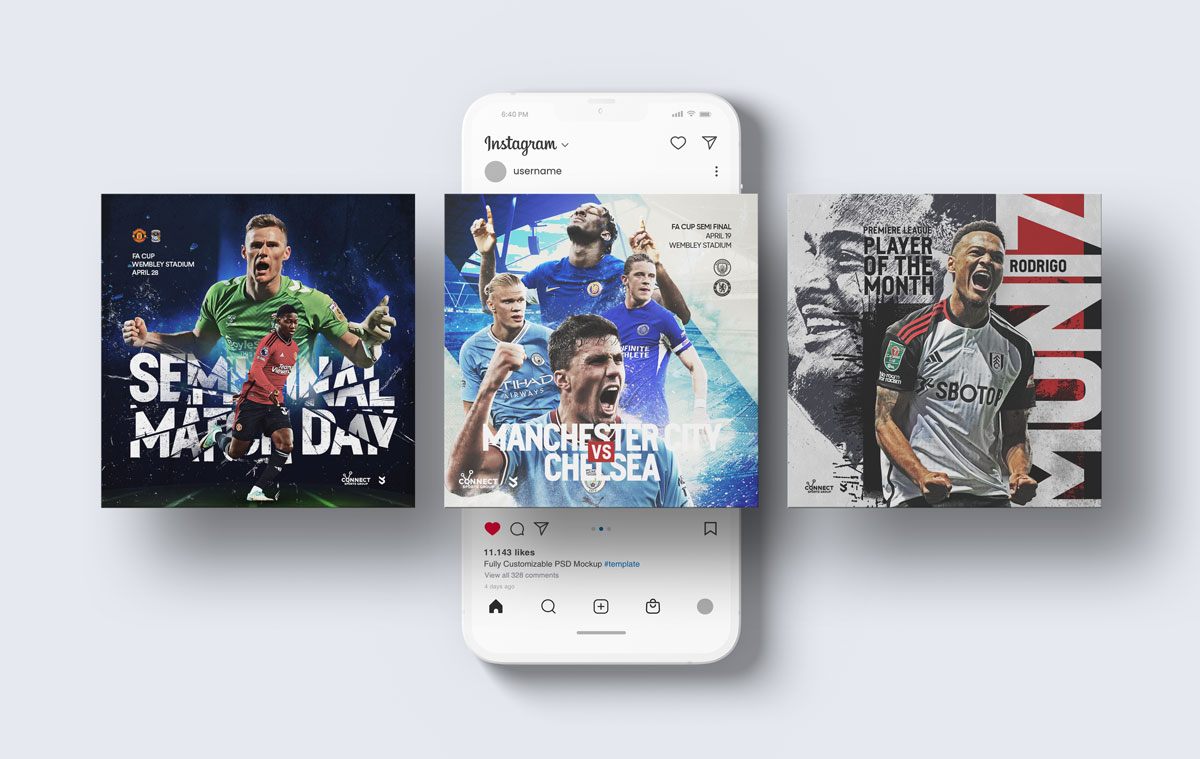
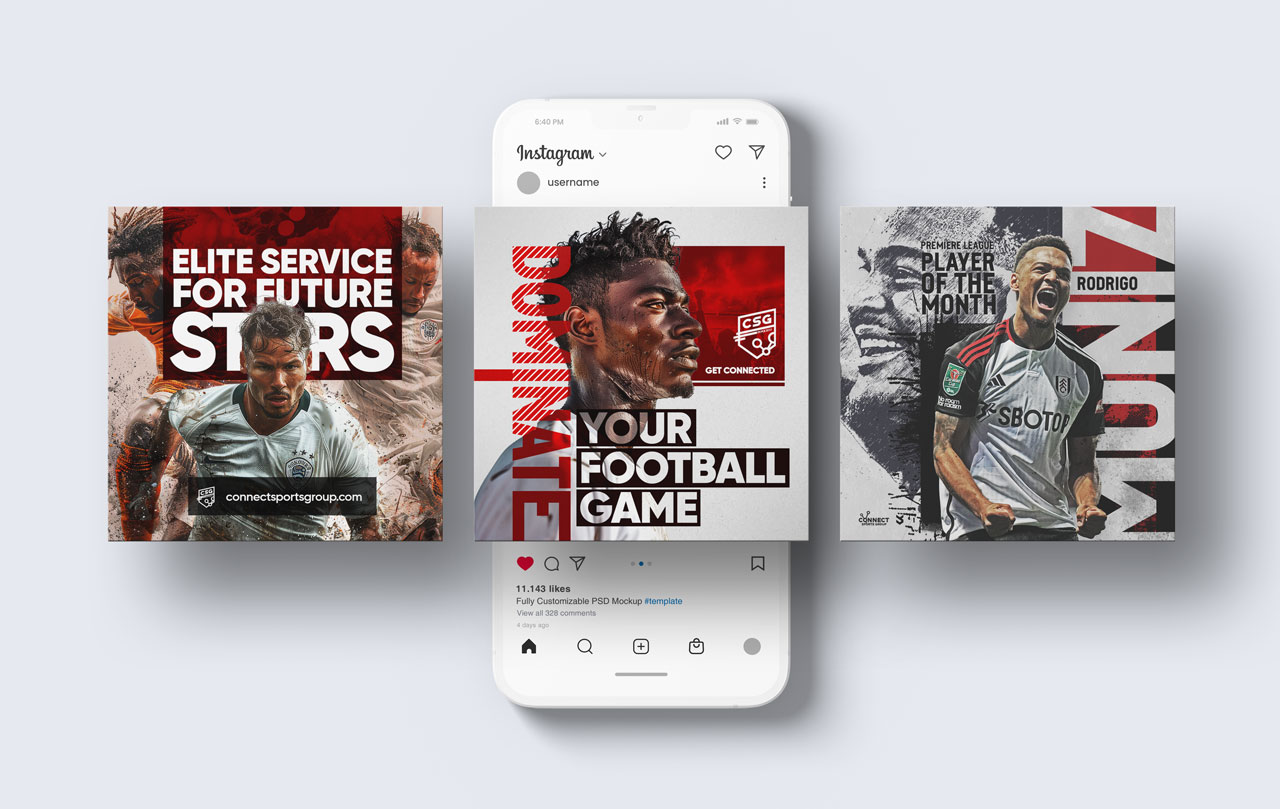
cleaned up and minimized

Changed region(s): [[0.0617, 0.2424, 0.6475, 0.6667], [0.4317, 0.1818, 0.4625, 0.2121]]

diff --git a/resume/index.html b/resume/index.html
@@ -42,7 +42,7 @@
     <img src="/images/resume/profile-pic.png" class="profile-pic" />
     <div>
       <p>
-        Art Director, Graphic Artist & Motion Artist with 25+ years of
+        Art Director, Graphic Designer & Motion Artist with 25+ years of
         professional experience
       </p>
     </div>
@@ -62,6 +62,20 @@
 <section>
   <h1>Work Experience</h1>
 
+  <pre>Connect Sports Group</pre>
+  <strong>Art Director, &amp; Graphic Artist</strong>
+  <div class="date">Apr 2024 - ONGOING</div>
+  <p>
+    Connect Sports Group is an bureau connecting soccer players with clubs.
+  </p>
+  <ul>
+    <li>Consulting in strategic use of visual communication.</li>
+    <li
+      >Created social media post artworks to extend reach, which has caused a
+      direct result in signing several players.</li
+    >
+  </ul>
+
   <pre>YouCruit & Lanefinder</pre>
   <strong
     >Art Director, Creative Director, Motion Graphic Artist &amp;
@@ -74,37 +88,41 @@
   </p>
   <ul>
     <li>
+      Created email campaigns with up to 13% conversion rate, far exceeding
+      industry standards.
+    </li>
+    <li
+      >Created Figma component library synchronized with the development and
+      marketing department to substantially increase speed of all productions,
+      and assure visual communication aligned with the brand.</li
+    >
+    <li>
+      Designed job application flow improvements resulting in a crucial increase
+      in applications, going from minimal - to thousands per month. Thus
+      substantially increased the success of the platform.
+    </li>
+    <li>
+      Created UI and UX for all platforms, which was very appreciated in several
+      of our target group surveys.
+    </li>
+    <li>
       Art Director in the Marketing department, overseeing the creation of
       advertisements, motion graphics, print designs, emails, and websites.
     </li>
     <li>
       Developed branding strategies for Lanefinder, Yobify, and YouCruit,
-      ensuring consistent brand messaging.
+      ensuring consistent brand messaging which later spread through
+      word-of-mouth to trucking schools and the first place to start when
+      starting off their career.
     </li>
+    <li
+      >Producer, videographer and post producer of several video productions,
+      targeted to both the target group as well as investors which, together
+      with the CEO, led to substantial investments.</li
+    >
     <li
       >Created video explainers published on the website and on social
       media.</li
-    >
-    <li
-      >Producer, videographer and post producer of several video productions,
-      targeted to both the target group as well as investors.</li
-    >
-    <li>
-      Created email campaigns with up to 13% conversion rate, far exceeding
-      industry standards.
-    </li>
-    <li>
-      Designed job application flow improvements resulting in a crucial increase
-      in applications, going from minimal - to thousands per month.
-    </li>
-    <li
-      >Created Figma component library synchronized with the development
-      department to substantially increase speed of all productions, and assure
-      visual communication aligned with the brand.</li
-    >
-    <li
-      >Created Figma component library to optimize and synergize production of
-      marketing material.</li
     >
     <li
       >Created Lottie animations for all productions to increase enjoyment and
@@ -117,22 +135,6 @@
     <li>
       Illustrated the character "Geophrey" to strengthen the YouCruit brand.
     </li>
-    <li>
-      Created UI/UX for all platforms, which turned out to be very appreciated
-      in several of our target group surveys.
-    </li>
-  </ul>
-
-  <pre>Connect Sports Group</pre>
-  <strong>Art Director, &amp; Graphic Artist</strong>
-  <div class="date">Apr 2024 - ONGOING</div>
-  <p>
-    Connect Sports Group is an bureau connecting soccer players with clubs.
-  </p>
-  <ul>
-    <li>Consulting in strategic use of graphic resources.</li>
-    <li>Creating social media post artworks to extend reach.</li>
-    <li>Signed several players due to exposure of graphic resources.</li>
   </ul>
 
   <pre>Trialbee</pre>
@@ -148,8 +150,8 @@
     </li>
     <li>Produced motion graphics, print materials, and advertisements.</li>
     <li
-      >Created marketing resouces to attract people to clinical trials
-      advertised.</li
+      >Created and tracked success of social media advertisements to attract
+      people to clinical trials.</li
     >
     <li>
       Enhanced Trialbee's brand reach through UI/UX design improvements for
@@ -163,8 +165,8 @@
   <p>Online retailer specializing in wines.</p>
   <ul>
     <li
-      >Photographed, and created promotional material, with renowned chefs for ICA
-      and Winefinder collaboration.</li
+      >Photographed, and created promotional material, with renowned chefs for
+      ICA and Winefinder collaboration.</li
     >
     <li>Designed the website for Winefinder.se.</li>
   </ul>
@@ -178,12 +180,12 @@
       and others.
     </li>
     <li>
-      Provided photography and creative services for individuals, music artists, companies,
-      and magazines.
+      Provided photography and creative services for individuals, music artists,
+      companies, and magazines.
     </li>
   </ul>
 
-  <pre>S. Jönsson Bil</pre>
+  <!-- <pre>S. Jönsson Bil</pre>
   <strong>Salesman of Used Premium Cars</strong>
   <div class="date">May 2011 - Sep 2011</div>
   <p>Car dealership for used premium cars.</p>
@@ -193,7 +195,7 @@
       >Served as a salesman for their cars mainly focused on Mercedes, but also
       BMW, Porche, Ferrari and Jaguar.</li
     >
-  </ul>
+  </ul> -->
 
   <pre>Sveriges Television</pre>
   <strong>Motion Graphic Artist</strong>
@@ -270,7 +272,6 @@
     <li>Illustration</li>
     <li>Videography</li>
     <li>Photography</li>
-    <li>Game Design</li>
     <li>UI / UX</li>
     <li>Web Design</li>
     <li>Adobe Photoshop</li>
@@ -312,12 +313,12 @@
     ISBN 174 081 462 2
   </p>
 
-  <strong>Global Poet Network - Poemcafe.com</strong>
+  <!-- <strong>Global Poet Network - Poemcafe.com</strong>
   <div class="date">2005</div>
   <p>
     Poem ”Little Girl” published in the korean poetry book “Global Poet Network”
     created by poemcafe.com. ISBN 899 541 596 7
-  </p>
+  </p> -->
 </section>
 
 <section>
@@ -484,7 +485,7 @@
 
   <strong>Fredrik Ardmar</strong>
   <div>Chief Marketing Officer at Lanefinder</div>
-  <p>073-517 91 32</p>
+  <p>073-517 91 32, fredrikardmar@gmail.com</p>
 
   <strong>Benjamin Rehmie</strong>
   <div>Graphic Designer at YouCruit & Lanefinder</div>
@@ -508,9 +509,9 @@
 
   <strong>Gisela Soprani</strong>
   <div>Manager of SVT Design</div>
-  <p>gisela.soprani@svt.se</p>
+  <p>0708-77 33 79, gisela.soprani@svt.se</p>
 
-  <strong>Olle Soprani</strong>
+  <!-- <strong>Olle Soprani</strong>
   <div>Graphic Artist of SVT Design</div>
   <p>0708-84 84 99, olle.soprani@svt.se</p>
 
@@ -520,7 +521,7 @@
 
   <strong>Fredrik Lundgren</strong>
   <div>Chief Marketing Director at WineFinder</div>
-  <p>0707-37 96 60, fl@winefinder.se</p>
+  <p>0707-37 96 60, fl@winefinder.se</p> -->
 </section>
 
 </main>
@@ -538,7 +539,7 @@
     <ul id="menu">
       <a href="/"><li>Portfolio</li></a>
       <!-- <a href="/artworks/"><li>Artworks</li></a> -->
-      <a href="/photography/"><li>Photography</li></a>
+      <!-- <a href="/photography/"><li>Photography</li></a> -->
       <a href="/resume/"><li>Resume</li></a>
       <a href="/about/"><li>About</li></a>
       <!-- <a href="https://society6.com/mikaelcedergren" target="_blank"><li>Shop</li></a> -->

diff --git a/index.html b/index.html
@@ -159,12 +159,12 @@
   </div>
   <img src="images/portfolio/csg-social-media-posts.jpg" />
   <div class="two-columns">
-    <div><img src="/images/portfolio/csg-post-1.jpg" alt="" /></div>
+    <div><img src="/images/portfolio/csg-post-5.jpg" alt="" /></div>
     <div><img src="/images/portfolio/csg-post-2.jpg" alt="" /></div>
   </div>
   <div class="two-columns">
     <div><img src="/images/portfolio/csg-post-3.jpg" alt="" /></div>
-    <div><img src="/images/portfolio/csg-post-4.jpg" alt="" /></div>
+    <div><img src="/images/portfolio/csg-post-1.jpg" alt="" /></div>
   </div>
 </section>
 
@@ -194,7 +194,7 @@
     materials, branding elements, and print assets.
   </article>
 </section>
-<section>
+<!-- <section>
   <div>
     <h1>Peter Lindström</h1>
     <h4>Photography * Print Design</h4>
@@ -207,7 +207,7 @@
   </div>
   <img src="images/portfolio/ice-and-steel.jpg" />
   <img src="images/portfolio/peter-lindstrom-photography.jpg" />
-</section>
+</section> -->
 <section>
   <div>
     <h1>BetCreative</h1>
@@ -235,6 +235,32 @@
   </div>
   <img src="images/portfolio/like-brothers.png" />
 </section> -->
+
+<!-- <section>
+  <div>
+    <h1>Personal Brand</h1>
+    <h4>Brand Design * Motion Graphics</h4>
+    <p>
+      Creating my personal brand, the logo subtly honoring my fascination with
+      wolves through a minimalist approach.
+    </p>
+    <img src="/images/portfolio/personal-brand-logo-animation.gif" />
+    <img src="/images/portfolio/personal-brand-stationary.jpg" />
+  </div>
+</section> -->
+
+<section>
+  <div>
+    <h1>Psychology of Design</h1>
+    <h4>Private Project</h4>
+    <p>
+      Ongoing project tackling the mindset challenges of being a designer from
+      my perspective as an experienced Art Director.
+    </p>
+    <img src="/images/portfolio/pod-intro.gif" />
+  </div>
+</section>
+
 <section>
   <h1>Sveriges Television</h1>
   <h4>Brand Design * Motion Graphics * Videography</h4>
@@ -262,29 +288,6 @@
   </div>
 </section>
 
-<section>
-  <div>
-    <h1>Personal Brand</h1>
-    <h4>Brand Design * Motion Graphics</h4>
-    <p>
-      Creating my personal brand, the logo subtly honoring my fascination with
-      wolves through a minimalist approach.
-    </p>
-    <img src="/images/portfolio/personal-brand-logo-animation.gif" />
-    <img src="/images/portfolio/personal-brand-stationary.jpg" />
-  </div>
-</section>
-
-<section>
-  <div>
-    <h1>Psychology of Design</h1>
-    <h4>Private Project</h4>
-    <p>
-      Ongoing project tackling the mindset challenges of being a designer from my perspective as an experienced Art Director. Hints in the design are consciously created to subtly align with my personal brand.
-    </p>
-    <img src="/images/portfolio/pod-intro.gif" />
-  </div>
-</section>
 <!-- 
 <section>
   <div>
@@ -365,7 +368,7 @@
     <ul id="menu">
       <a href="/"><li>Portfolio</li></a>
       <!-- <a href="/artworks/"><li>Artworks</li></a> -->
-      <a href="/photography/"><li>Photography</li></a>
+      <!-- <a href="/photography/"><li>Photography</li></a> -->
       <a href="/resume/"><li>Resume</li></a>
       <a href="/about/"><li>About</li></a>
       <!-- <a href="https://society6.com/mikaelcedergren" target="_blank"><li>Shop</li></a> -->

diff --git a/about/index.html b/about/index.html
@@ -111,7 +111,7 @@
     <ul id="menu">
       <a href="/"><li>Portfolio</li></a>
       <!-- <a href="/artworks/"><li>Artworks</li></a> -->
-      <a href="/photography/"><li>Photography</li></a>
+      <!-- <a href="/photography/"><li>Photography</li></a> -->
       <a href="/resume/"><li>Resume</li></a>
       <a href="/about/"><li>About</li></a>
       <!-- <a href="https://society6.com/mikaelcedergren" target="_blank"><li>Shop</li></a> -->

diff --git a/artworks/index.html b/artworks/index.html
@@ -155,7 +155,7 @@
     <ul id="menu">
       <a href="/"><li>Portfolio</li></a>
       <!-- <a href="/artworks/"><li>Artworks</li></a> -->
-      <a href="/photography/"><li>Photography</li></a>
+      <!-- <a href="/photography/"><li>Photography</li></a> -->
       <a href="/resume/"><li>Resume</li></a>
       <a href="/about/"><li>About</li></a>
       <!-- <a href="https://society6.com/mikaelcedergren" target="_blank"><li>Shop</li></a> -->

diff --git a/photography/index.html b/photography/index.html
@@ -172,7 +172,7 @@
     <ul id="menu">
       <a href="/"><li>Portfolio</li></a>
       <!-- <a href="/artworks/"><li>Artworks</li></a> -->
-      <a href="/photography/"><li>Photography</li></a>
+      <!-- <a href="/photography/"><li>Photography</li></a> -->
       <a href="/resume/"><li>Resume</li></a>
       <a href="/about/"><li>About</li></a>
       <!-- <a href="https://society6.com/mikaelcedergren" target="_blank"><li>Shop</li></a> -->

diff --git a/contact/index.html b/contact/index.html
@@ -60,7 +60,7 @@
     <ul id="menu">
       <a href="/"><li>Portfolio</li></a>
       <!-- <a href="/artworks/"><li>Artworks</li></a> -->
-      <a href="/photography/"><li>Photography</li></a>
+      <!-- <a href="/photography/"><li>Photography</li></a> -->
       <a href="/resume/"><li>Resume</li></a>
       <a href="/about/"><li>About</li></a>
       <!-- <a href="https://society6.com/mikaelcedergren" target="_blank"><li>Shop</li></a> -->
